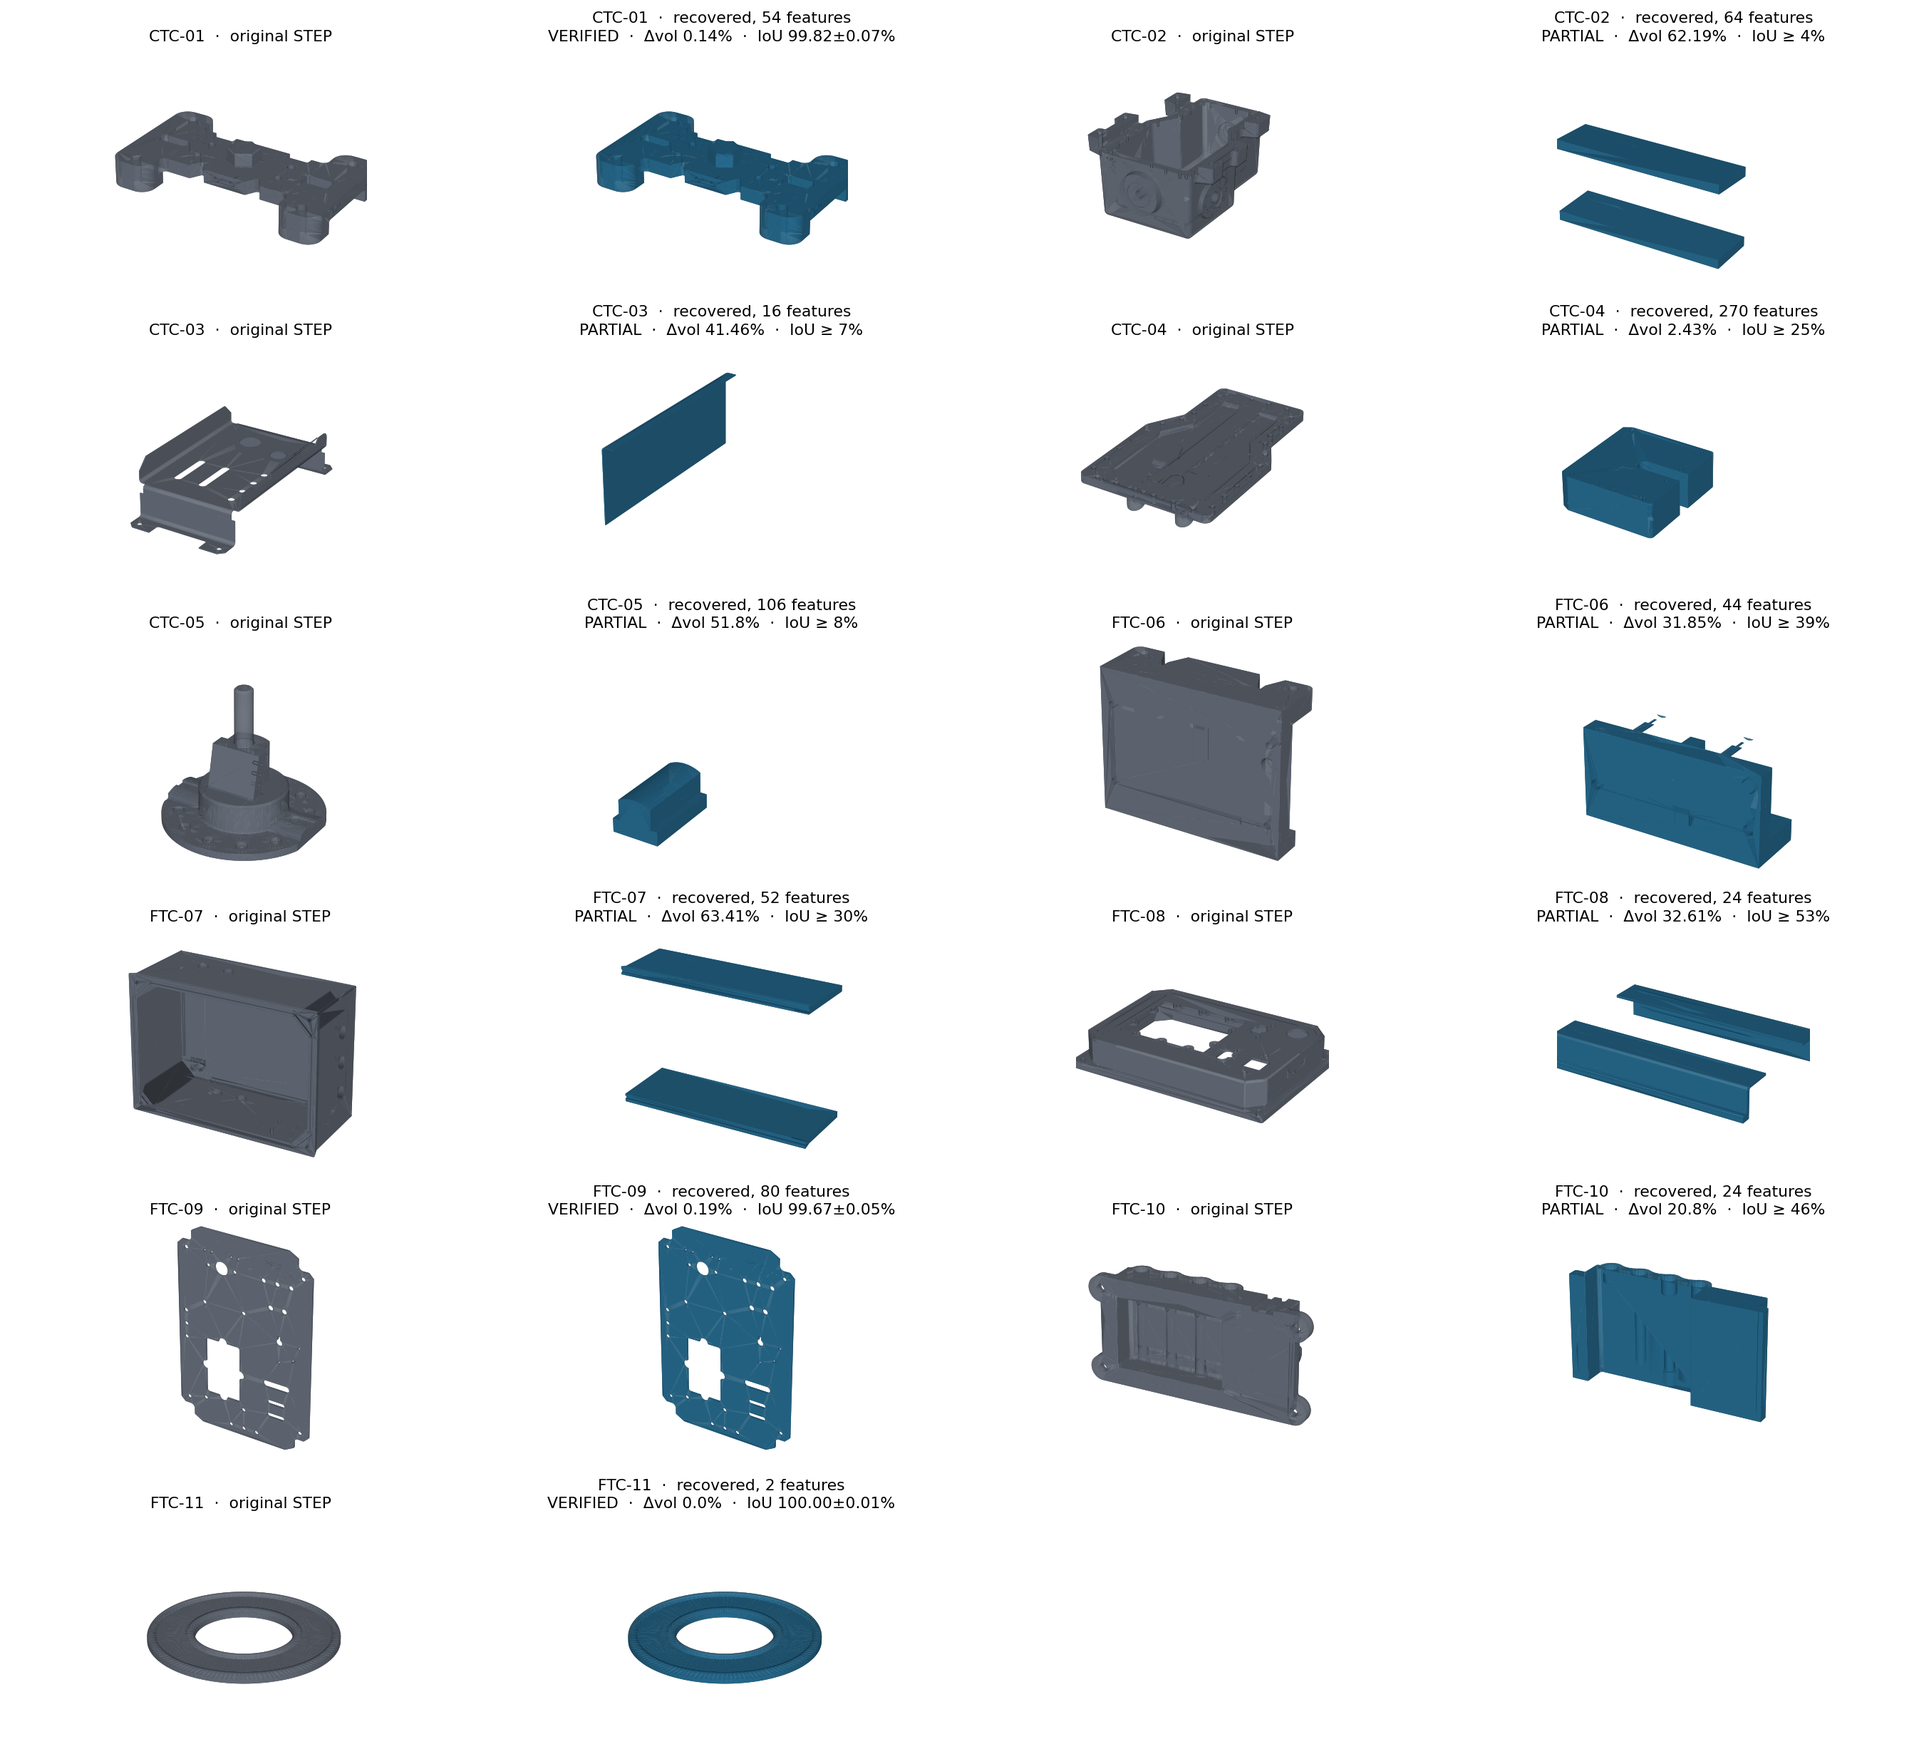
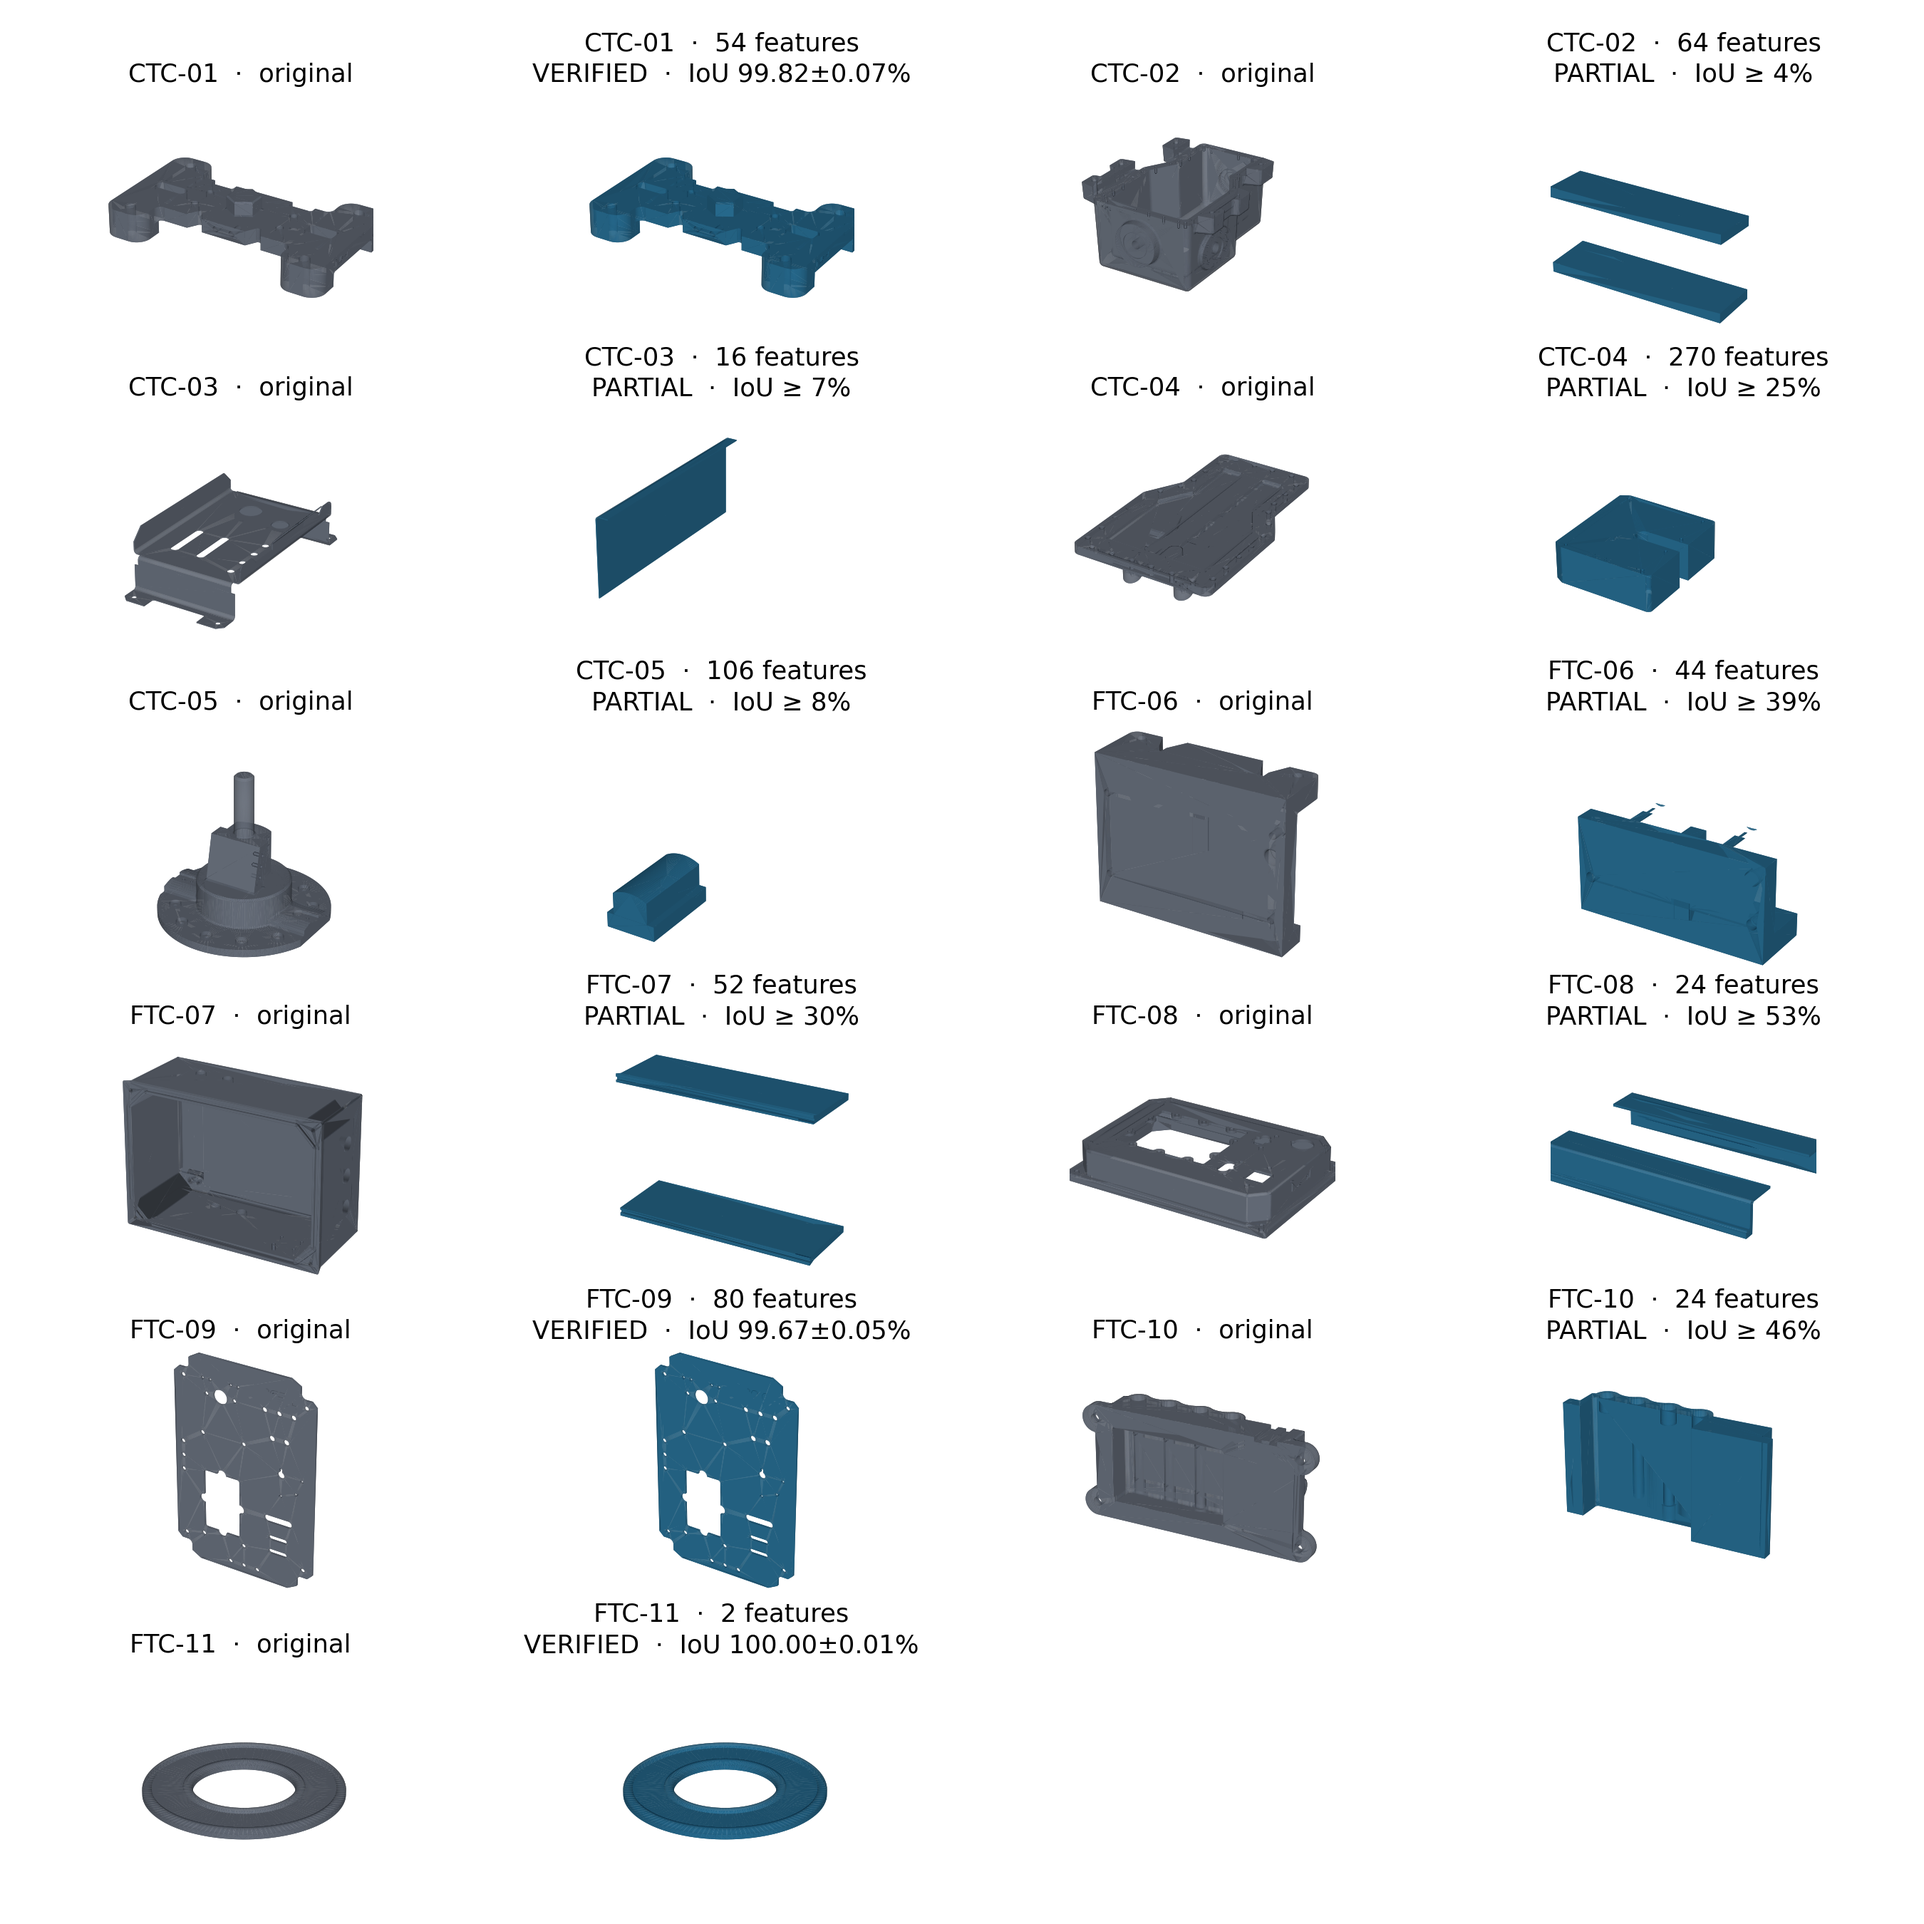
figures: legible all-parts gallery, compact HTML corpus table
The gallery is shown at about a quarter size in a blog column, so its labels
are enlarged and shortened to part, feature count, verdict and IoU (the full
table sits alongside it). corpus_table.py's HTML is now a compact variant for
narrow pages -- NIST set implied by the CTC/FTC prefix, no wall-clock,
shortened cells -- while the Markdown stays complete.

diff --git a/paper/figures/corpus_table.html b/paper/figures/corpus_table.html
@@ -1,17 +1,17 @@
 <div class="table-wrap"><table>
-<thead><tr><th>Part</th><th>NIST set</th><th>Verdict</th><th>Fails</th><th>Volume error</th><th>Extent error</th><th>IoU (%)</th><th>Features</th><th>How recovered</th><th>Time</th></tr></thead>
+<thead><tr><th>Part</th><th>Verdict</th><th>Fails</th><th>Vol. error</th><th>Extent error (mm)</th><th>IoU (%)</th><th>Features</th><th>Recovered as</th></tr></thead>
 <tbody>
-<tr><td>CTC-01</td><td>Combined</td><td><strong>VERIFIED</strong></td><td>—</td><td>0.14%</td><td>0.00 mm</td><td><strong>99.82 ± 0.07</strong></td><td>54</td><td>extrude ∥Z · +14 pockets, +10 cross-holes</td><td>24 s</td></tr>
-<tr><td>CTC-02</td><td>Combined</td><td>PARTIAL</td><td>volume + extents</td><td>62.19%</td><td>267.69 mm</td><td>≥ 3.9</td><td>64</td><td>extrude ∥Y · 2 regions</td><td>90 s</td></tr>
-<tr><td>CTC-03</td><td>Combined</td><td>PARTIAL</td><td>volume + extents</td><td>41.46%</td><td>132.54 mm</td><td>≥ 6.5</td><td>16</td><td>extrude ∥Y</td><td>5 s</td></tr>
-<tr><td>CTC-04</td><td>Combined</td><td>PARTIAL</td><td>volume + extents</td><td>2.43%</td><td>390.00 mm</td><td>≥ 25.0</td><td>270</td><td>extrude ∥Z</td><td>81 s</td></tr>
-<tr><td>CTC-05</td><td>Combined</td><td>PARTIAL</td><td>volume + extents</td><td>51.80%</td><td>349.25 mm</td><td>≥ 8.2</td><td>106</td><td>extrude ∥Z</td><td>11 s</td></tr>
-<tr><td>FTC-06</td><td>Fully-toleranced</td><td>PARTIAL</td><td>volume + extents</td><td>31.85%</td><td>98.83 mm</td><td>≥ 39.3</td><td>44</td><td>extrude ∥Y · +17 pockets, +5 cross-holes</td><td>12 s</td></tr>
-<tr><td>FTC-07</td><td>Fully-toleranced</td><td>PARTIAL</td><td>volume + extents</td><td>63.41%</td><td>30.25 mm</td><td>≥ 30.3</td><td>52</td><td>extrude ∥X · 2 regions</td><td>18 s</td></tr>
-<tr><td>FTC-08</td><td>Fully-toleranced</td><td>PARTIAL</td><td>volume</td><td>32.61%</td><td>0.00 mm</td><td>≥ 53.3</td><td>24</td><td>extrude ∥X · 2 regions</td><td>63 s</td></tr>
-<tr><td>FTC-09</td><td>Fully-toleranced</td><td><strong>VERIFIED</strong></td><td>—</td><td>0.19%</td><td>0.00 mm</td><td><strong>99.67 ± 0.05</strong></td><td>80</td><td>extrude ∥Y</td><td>5 s</td></tr>
-<tr><td>FTC-10</td><td>Fully-toleranced</td><td>PARTIAL</td><td>volume + extents</td><td>20.80%</td><td>18.00 mm</td><td>≥ 46.5</td><td>24</td><td>extrude ∥Z</td><td>26 s</td></tr>
-<tr><td>FTC-11</td><td>Fully-toleranced</td><td><strong>VERIFIED</strong></td><td>—</td><td>0.00%</td><td>0.00 mm</td><td><strong>100.00 ± 0.01</strong></td><td>2</td><td>revolve</td><td>3 s</td></tr>
+<tr><td style="white-space:nowrap">CTC-01</td><td><strong>VERIFIED</strong></td><td>—</td><td style="white-space:nowrap">0.14%</td><td>0.0</td><td style="white-space:nowrap"><strong>99.82 ± 0.07</strong></td><td>54</td><td>extrude Z · 14 pockets, 10 holes</td></tr>
+<tr><td style="white-space:nowrap">CTC-02</td><td>PARTIAL</td><td>both</td><td style="white-space:nowrap">62.19%</td><td>267.7</td><td style="white-space:nowrap">≥ 3.9</td><td>64</td><td>extrude Y · 2 regions</td></tr>
+<tr><td style="white-space:nowrap">CTC-03</td><td>PARTIAL</td><td>both</td><td style="white-space:nowrap">41.46%</td><td>132.5</td><td style="white-space:nowrap">≥ 6.5</td><td>16</td><td>extrude Y</td></tr>
+<tr><td style="white-space:nowrap">CTC-04</td><td>PARTIAL</td><td>both</td><td style="white-space:nowrap">2.43%</td><td>390.0</td><td style="white-space:nowrap">≥ 25.0</td><td>270</td><td>extrude Z</td></tr>
+<tr><td style="white-space:nowrap">CTC-05</td><td>PARTIAL</td><td>both</td><td style="white-space:nowrap">51.80%</td><td>349.2</td><td style="white-space:nowrap">≥ 8.2</td><td>106</td><td>extrude Z</td></tr>
+<tr><td style="white-space:nowrap">FTC-06</td><td>PARTIAL</td><td>both</td><td style="white-space:nowrap">31.85%</td><td>98.8</td><td style="white-space:nowrap">≥ 39.3</td><td>44</td><td>extrude Y · 17 pockets, 5 holes</td></tr>
+<tr><td style="white-space:nowrap">FTC-07</td><td>PARTIAL</td><td>both</td><td style="white-space:nowrap">63.41%</td><td>30.2</td><td style="white-space:nowrap">≥ 30.3</td><td>52</td><td>extrude X · 2 regions</td></tr>
+<tr><td style="white-space:nowrap">FTC-08</td><td>PARTIAL</td><td>volume</td><td style="white-space:nowrap">32.61%</td><td>0.0</td><td style="white-space:nowrap">≥ 53.3</td><td>24</td><td>extrude X · 2 regions</td></tr>
+<tr><td style="white-space:nowrap">FTC-09</td><td><strong>VERIFIED</strong></td><td>—</td><td style="white-space:nowrap">0.19%</td><td>0.0</td><td style="white-space:nowrap"><strong>99.67 ± 0.05</strong></td><td>80</td><td>extrude Y</td></tr>
+<tr><td style="white-space:nowrap">FTC-10</td><td>PARTIAL</td><td>both</td><td style="white-space:nowrap">20.80%</td><td>18.0</td><td style="white-space:nowrap">≥ 46.5</td><td>24</td><td>extrude Z</td></tr>
+<tr><td style="white-space:nowrap">FTC-11</td><td><strong>VERIFIED</strong></td><td>—</td><td style="white-space:nowrap">0.00%</td><td>0.0</td><td style="white-space:nowrap"><strong>100.00 ± 0.01</strong></td><td>2</td><td>revolve</td></tr>
 </tbody></table></div>
 <div class="table-wrap"><table>
 <thead><tr><th>Published by NIST, not run</th><th>NIST set</th><th>Why</th></tr></thead><tbody>

diff --git a/paper/figures/render_recovered.py b/paper/figures/render_recovered.py
@@ -82,7 +82,7 @@ def shade(tris, base):
     return np.clip(base[None, :] * f[:, None], 0, 1)
 
 
-def draw(ax, tris, base, title, view, frame=None):
+def draw(ax, tris, base, title, view, frame=None, fontsize=10.5):
     pc = Poly3DCollection(tris, facecolors=shade(tris, base), linewidths=0)
     ax.add_collection3d(pc)
 
@@ -91,7 +91,7 @@ def draw(ax, tris, base, title, view, frame=None):
     ax.set_box_aspect(np.maximum(hi - lo, 1e-6), zoom=1.05)
     ax.view_init(elev=view[0], azim=view[1])
     ax.set_axis_off()
-    ax.set_title(title, fontsize=10.5, pad=0, linespacing=1.35)
+    ax.set_title(title, fontsize=fontsize, pad=0, linespacing=1.35)
 
 
 ALL_PARTS = [
@@ -181,7 +181,7 @@ def main():
     per_row = 2 if args.all else 1                       # part-pairs per figure row
     nrows = -(-len(rows) // per_row)
     ncols = 2 * per_row
-    fig = plt.figure(figsize=(4.5 * ncols, (2.75 if args.all else 3.3) * nrows))
+    fig = plt.figure(figsize=(4.5 * ncols, (3.0 if args.all else 3.3) * nrows))
     for i, (label, view, orig, rec, verdict, dvol, nfeat, iou_pct, iou_ci) in enumerate(rows):
         a1 = fig.add_subplot(nrows, ncols, 2 * i + 1, projection="3d")
         a2 = fig.add_subplot(nrows, ncols, 2 * i + 2, projection="3d")
@@ -190,12 +190,17 @@ def main():
         # VERIFIED parts are effectively exact; a PARTIAL's IoU is a floor, so say so
         iou_txt = (f"IoU {iou_pct:.2f}±{iou_ci:.2f}%" if verdict == "VERIFIED"
                    else f"IoU ≥ {iou_pct:.0f}%") if iou_pct is not None else ""
-        draw(a1, orig, C_ORIG, f"{label}  ·  original STEP", view, frame)
-        draw(a2, rec, C_REC, f"{label}  ·  recovered, {nfeat} features\n"
-                             f"{verdict}  ·  Δvol {dvol}%  ·  {iou_txt}", view, frame)
+        fs = 17 if args.all else 10.5     # the gallery is shown at ~1/4 size in a blog column
+        draw(a1, orig, C_ORIG, f"{label}  ·  original" if args.all else f"{label}  ·  original STEP",
+             view, frame, fs)
+        if args.all:   # short labels: the gallery sits under the full table, which has the rest
+            title = f"{label}  ·  {nfeat} features\n{verdict}  ·  {iou_txt}"
+        else:
+            title = f"{label}  ·  recovered, {nfeat} features\n{verdict}  ·  Δvol {dvol}%  ·  {iou_txt}"
+        draw(a2, rec, C_REC, title, view, frame, fs)
 
     if args.all:
-        fig.subplots_adjust(left=0.0, right=1.0, top=0.975, bottom=0.0, wspace=0.0, hspace=0.16)
+        fig.subplots_adjust(left=0.0, right=1.0, top=0.955, bottom=0.0, wspace=0.0, hspace=0.18)
     else:
         fig.subplots_adjust(left=0.0, right=1.0, top=0.965, bottom=0.0, wspace=0.0, hspace=0.12)
     fig.savefig(out_path, dpi=150 if args.all else 170, facecolor="white")

diff --git a/paper/figures/corpus_table.py b/paper/figures/corpus_table.py
@@ -121,17 +121,33 @@ def main():
     md += [f"| {a} | {b} | {c} |" for a, b, c in NOT_RUN]
     open(os.path.join(FIG, "corpus_table.md"), "w").write("\n".join(md) + "\n")
 
+    # The HTML is the COMPACT variant for narrow pages (the blog): the Markdown above stays
+    # complete. The NIST set is implied by the CTC/FTC prefix, wall-clock is dropped, and cells
+    # are shortened so a 760 px column does not wrap part names.
     e = html.escape
+    short = {"Part": "Part", "Verdict": "Verdict", "Fails": "Fails", "Volume error": "Vol. error",
+             "Extent error": "Extent error (mm)", "IoU (%)": "IoU (%)", "Features": "Features",
+             "How recovered": "Recovered as"}
+    def cell(r, c):
+        v = r[c]
+        if c == "Fails":
+            v = {"volume + extents": "both"}.get(v, v)
+        elif c == "Extent error":
+            v = f"{float(v.split()[0]):.1f}"
+        elif c == "Volume error":
+            v = f"{float(v.rstrip('%')):.2f}%"
+        elif c == "How recovered":
+            v = (v.replace("extrude ∥", "extrude ").replace(" pockets", " pockets")
+                  .replace("+", "").replace(" cross-holes", " holes"))
+        v = e(v)
+        if c in ("Verdict", "IoU (%)") and r["Verdict"] == "VERIFIED":
+            v = f"<strong>{v}</strong>"
+        nowrap = ' style="white-space:nowrap"' if c in ("Part", "IoU (%)", "Volume error") else ""
+        return f"<td{nowrap}>{v}</td>"
     h = ['<div class="table-wrap"><table>', "<thead><tr>"
-         + "".join(f"<th>{e(c)}</th>" for c in cols) + "</tr></thead>", "<tbody>"]
+         + "".join(f"<th>{e(short[c])}</th>" for c in short) + "</tr></thead>", "<tbody>"]
     for r in rows:
-        tds = []
-        for c in cols:
-            v = e(r[c])
-            if c in ("Verdict", "IoU (%)") and r["Verdict"] == "VERIFIED":
-                v = f"<strong>{v}</strong>"
-            tds.append(f"<td>{v}</td>")
-        h.append("<tr>" + "".join(tds) + "</tr>")
+        h.append("<tr>" + "".join(cell(r, c) for c in short) + "</tr>")
     h.append("</tbody></table></div>")
     h.append('<div class="table-wrap"><table>')
     h.append("<thead><tr><th>Published by NIST, not run</th><th>NIST set</th><th>Why</th></tr></thead><tbody>")
